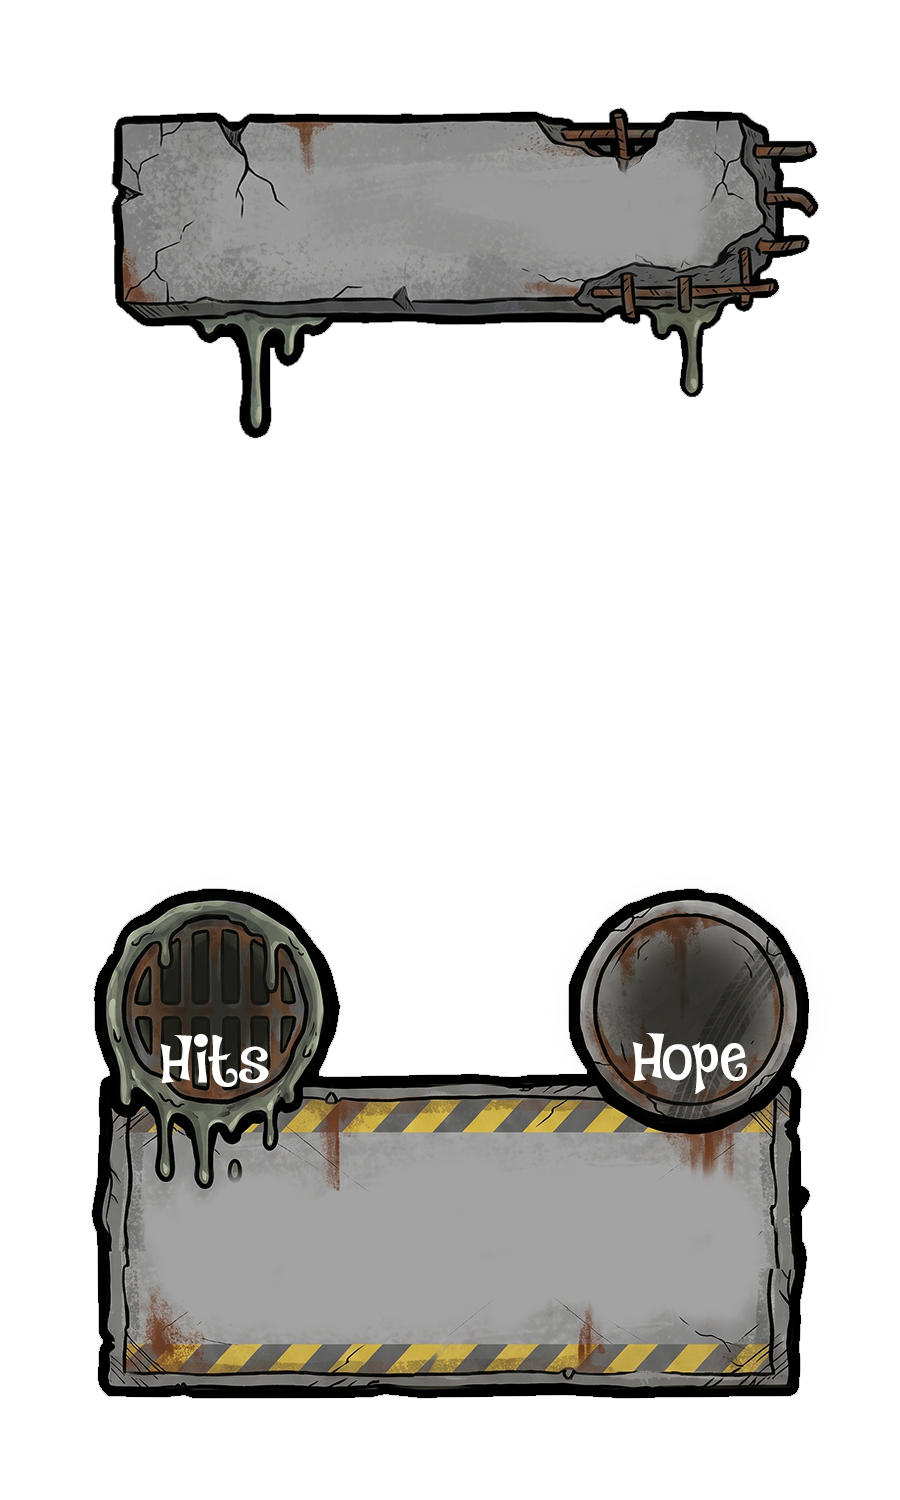
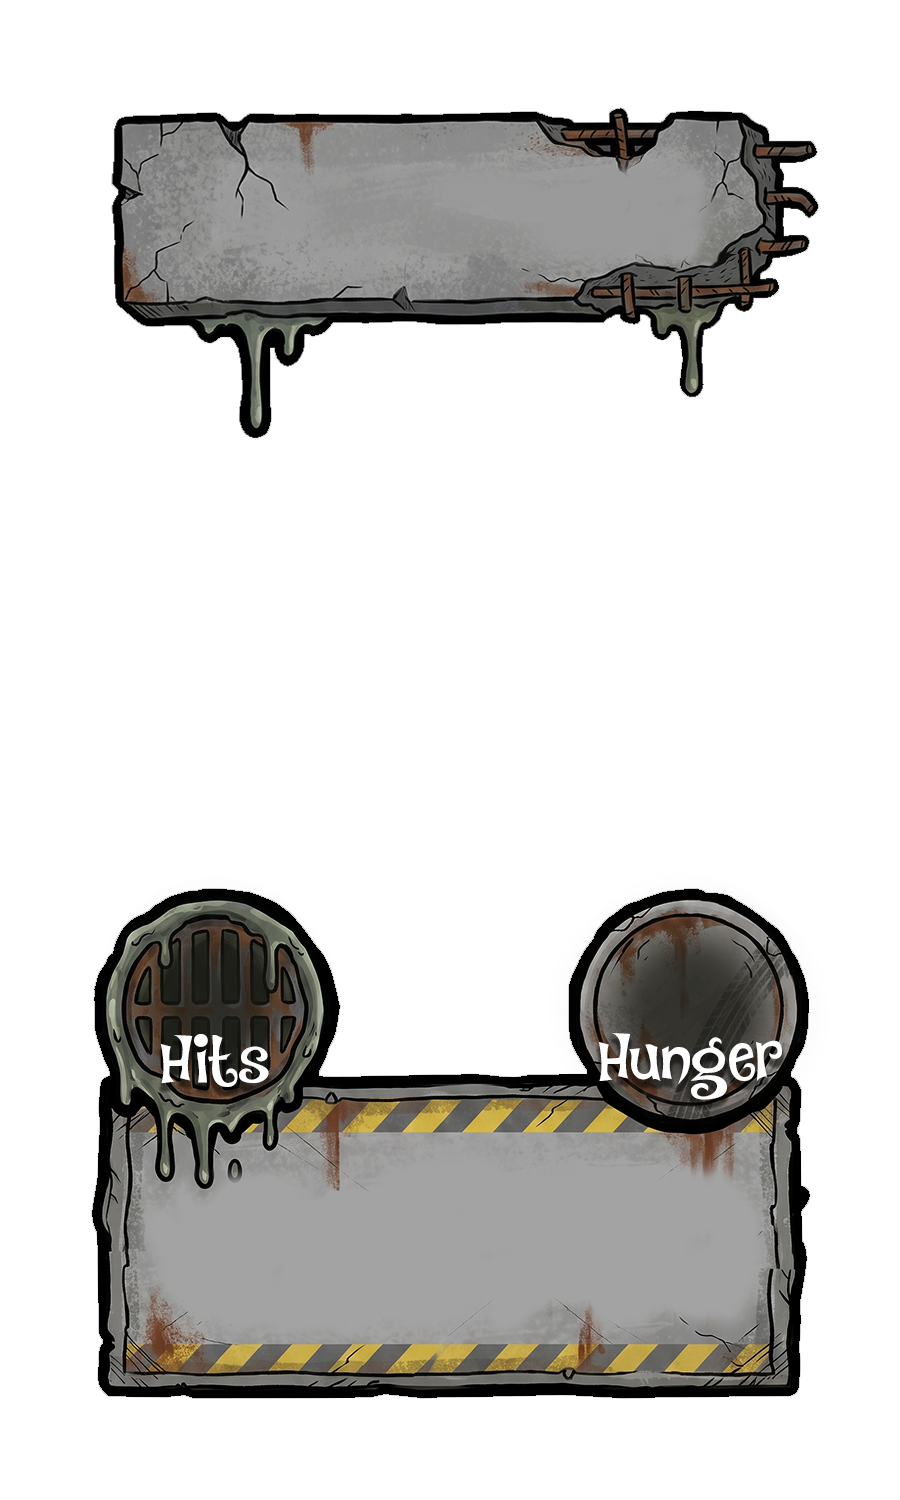
feat(azv): stat badges on deck-list card thumbnails; updated level overlays
Each card cell in the builder list now shows its key stats in the
thumbnail corners, small and shadowed so they read over any art:
- bottom left: the weapon type icon when the card has one (Good Stuff
  weapons, Mega Stuff), otherwise the Hits number
- bottom right: Hope, or Hunger when there's no Hope (Bad Stuff)

So Humans read Hits/Hope, Bad Stuff Hits/Hunger, and Good Stuff weapons
icon/Hope; armor and energy show nothing, having no stats.

Also pushes the five replaced Bad Stuff level overlays.

Changed region(s): [[0.6533, 0.6747, 0.8711, 0.736], [0.1867, 0.7053, 0.3111, 0.736]]

diff --git a/src/app/games/azv/packs/AZVPackBuilder.tsx b/src/app/games/azv/packs/AZVPackBuilder.tsx
@@ -628,7 +628,7 @@ export default function AZVPackBuilder({ pack, onBack }: AZVPackBuilderProps) {
                               onClick={() => openForm(card)}
                               className="group flex flex-col items-center gap-1.5 rounded-lg border border-white/10 bg-white/5 p-1.5 transition-colors hover:border-lime-400/30 hover:bg-white/10"
                             >
-                              <div className="aspect-3/5 w-full overflow-hidden rounded-md bg-neutral-800">
+                              <div className="relative aspect-3/5 w-full overflow-hidden rounded-md bg-neutral-800">
                                 {card.backgroundImageURL ? (
                                   /* eslint-disable-next-line @next/next/no-img-element -- Storage URL */
                                   <img
@@ -637,6 +637,35 @@ export default function AZVPackBuilder({ pack, onBack }: AZVPackBuilderProps) {
                                     className="h-full w-full object-cover"
                                   />
                                 ) : null}
+                                {/* At-a-glance stats: weapon icon or Hits at
+                                    bottom-left, Hope or Hunger bottom-right. */}
+                                {card.weaponType ? (
+                                  /* eslint-disable-next-line @next/next/no-img-element -- local asset */
+                                  <img
+                                    src={weaponIconPath(card.weaponType)}
+                                    alt={card.weaponType}
+                                    title={card.weaponType}
+                                    onError={(e) => {
+                                      e.currentTarget.style.visibility = "hidden";
+                                    }}
+                                    className="absolute bottom-0.5 left-0.5 h-4 w-4 drop-shadow-[0_1px_2px_rgba(0,0,0,0.9)]"
+                                  />
+                                ) : card.hits != null ? (
+                                  <span
+                                    title="Hits"
+                                    className="absolute bottom-0.5 left-1 text-[10px] font-bold text-white [text-shadow:0_1px_2px_rgba(0,0,0,0.9)]"
+                                  >
+                                    {card.hits}
+                                  </span>
+                                ) : null}
+                                {(card.hope ?? card.hunger) != null && (
+                                  <span
+                                    title={card.hope != null ? "Hope" : "Hunger"}
+                                    className="absolute right-1 bottom-0.5 text-[10px] font-bold text-white [text-shadow:0_1px_2px_rgba(0,0,0,0.9)]"
+                                  >
+                                    {card.hope ?? card.hunger}
+                                  </span>
+                                )}
                               </div>
                               <p className="w-full truncate text-center text-xs font-bold text-white">
                                 {cardListLabel(card)}
